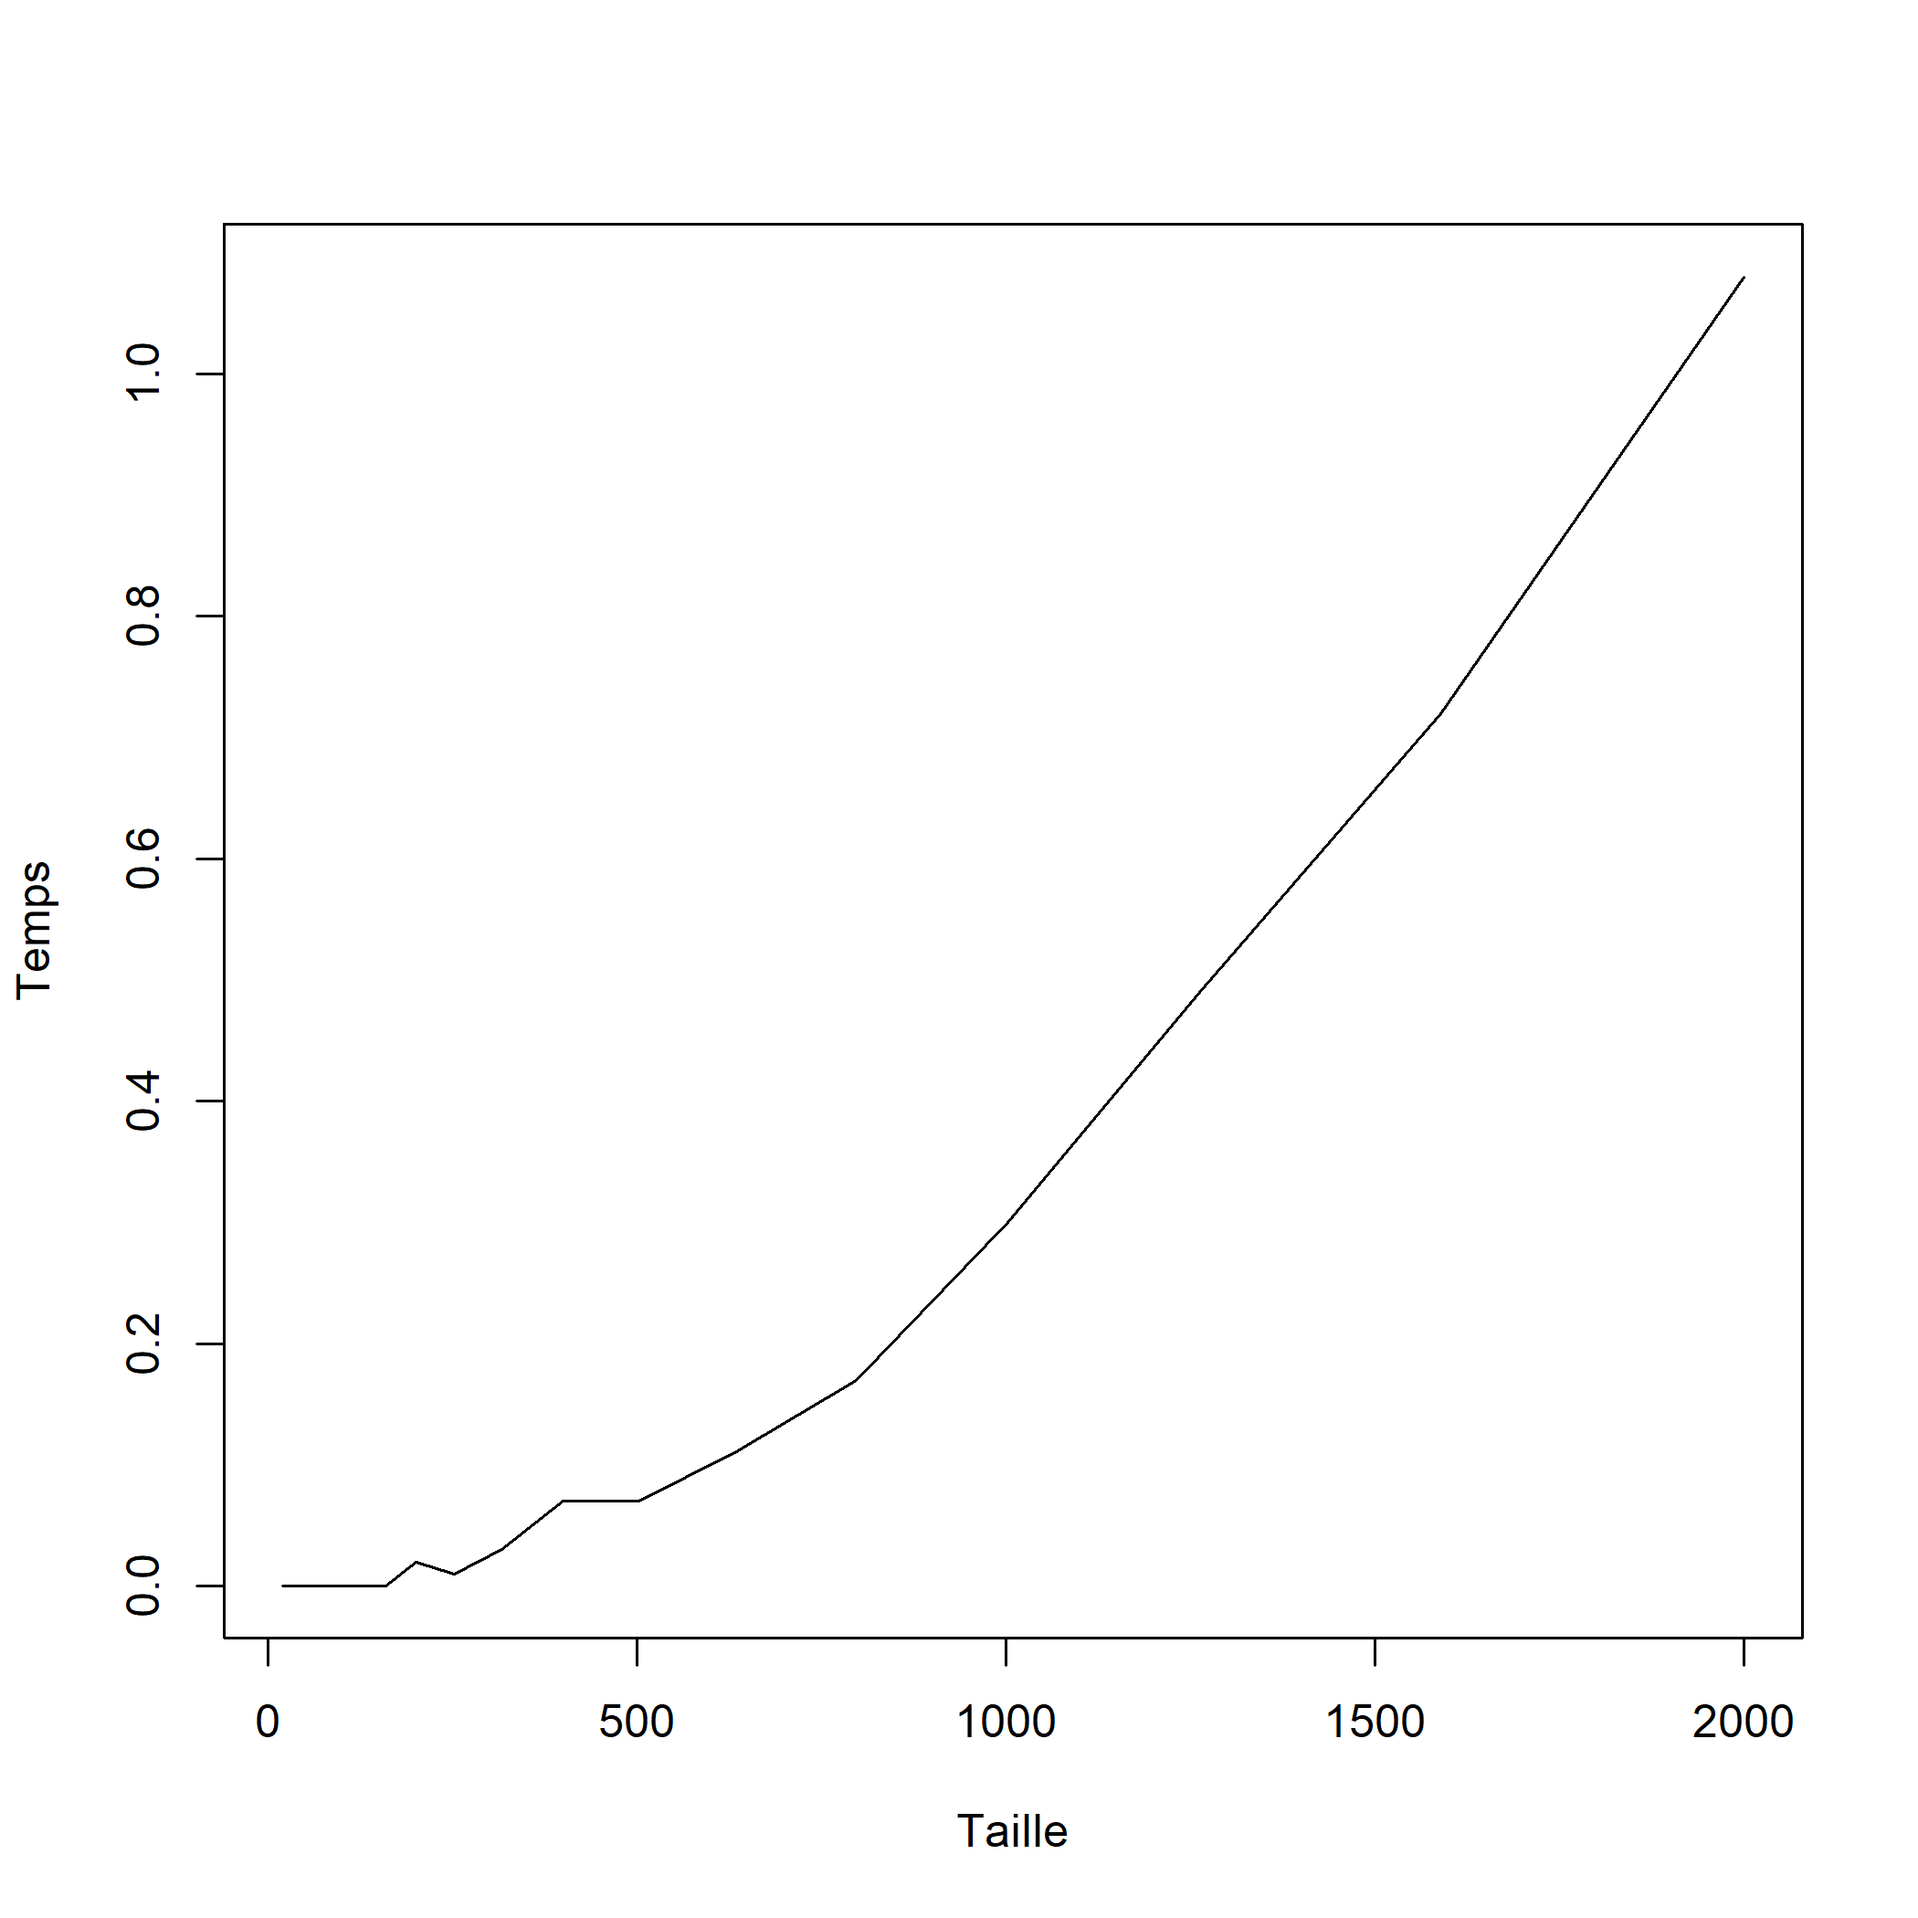
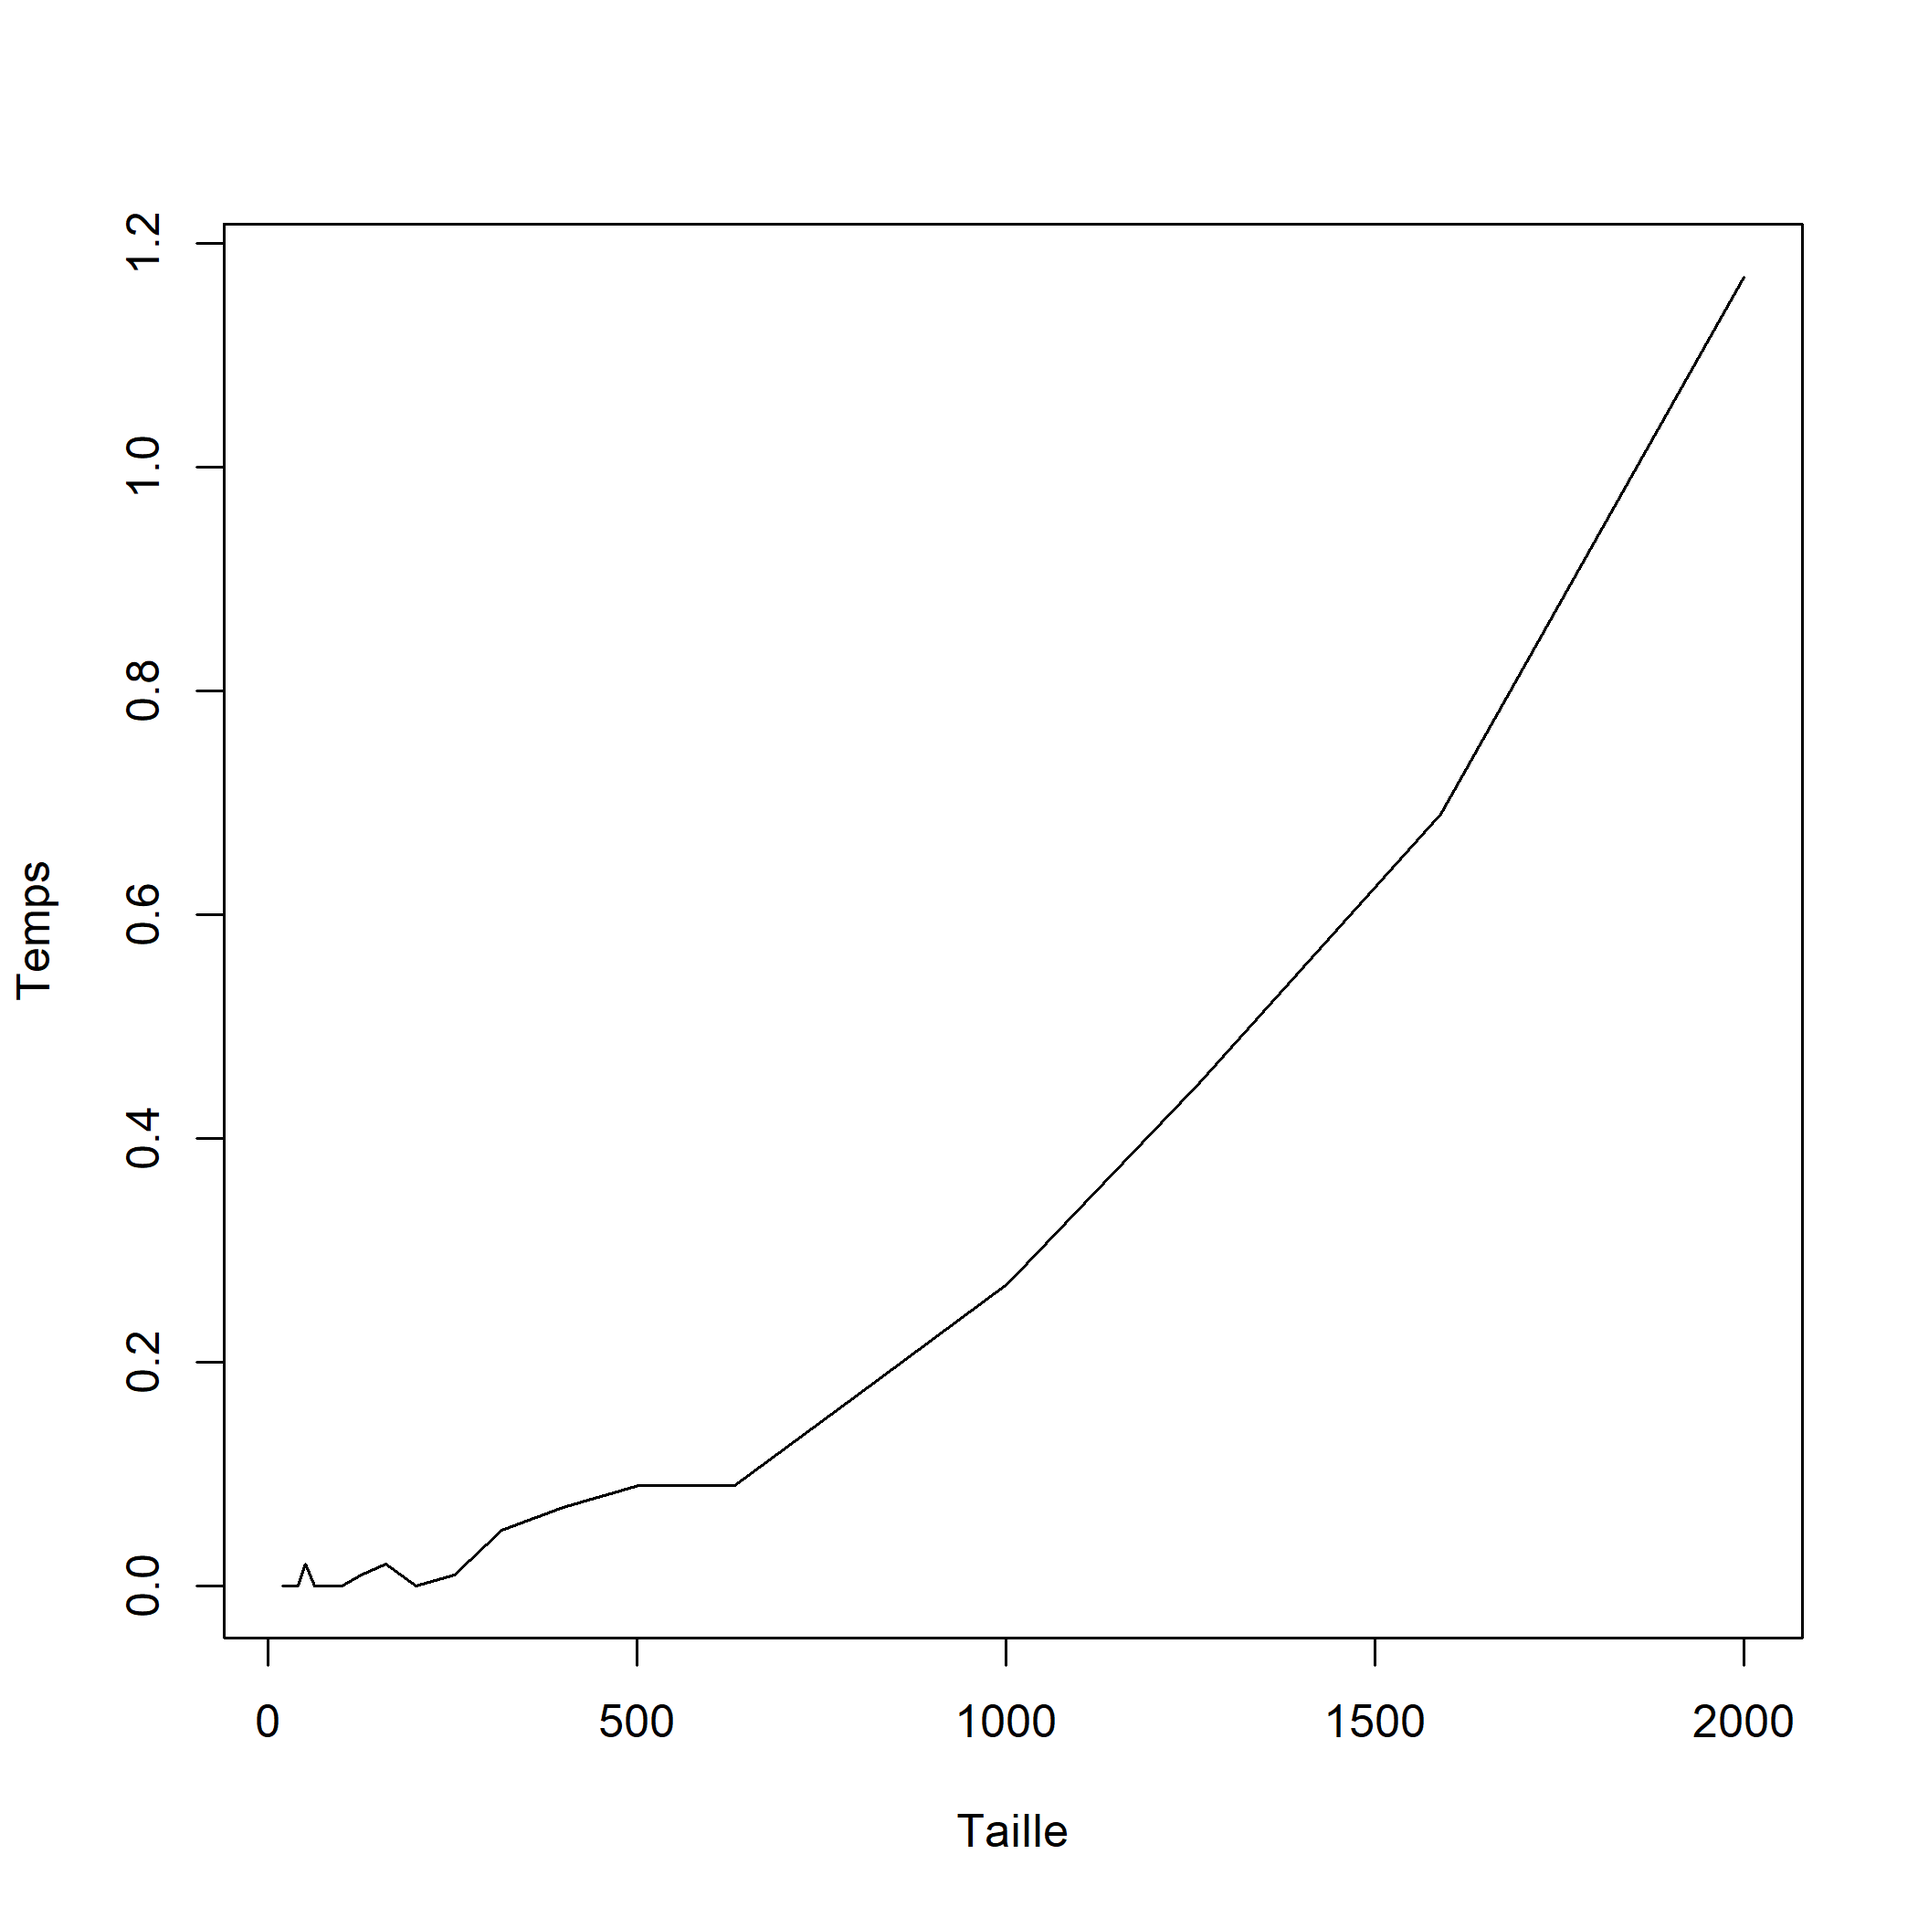
Revert "modif"

diff --git a/Atelier_3/index.html b/Atelier_3/index.html
@@ -400,11 +400,11 @@ for(etape in 1:5) {
 ```
 
 ```
-## [1] 0.8875655
-## [1] 0.8872697
-## [1] 0.5198232
-## [1] 0.4229859
-## [1] 0.04483531
+## [1] 0.1441958
+## [1] 0.5988199
+## [1] 0.1349426
+## [1] 0.842209
+## [1] 0.7561751
 ```
 
 ---
@@ -591,10 +591,6 @@ while(combinaison != "pile-pile") {
 
 ```
 ## [1] "face-pile"
-## [1] "face-pile"
-## [1] "face-pile"
-## [1] "face-pile"
-## [1] "pile-face"
 ## [1] "pile-pile"
 ```
 
@@ -635,7 +631,7 @@ mean(res)
 ```
 
 ```
-## [1] 6.0903
+## [1] 5.953
 ```
 
 ---
@@ -888,17 +884,17 @@ cbind(X,res)
 
 
 ```
-##       X                   res         
-##  [1,] "0.398478131042793" "plus grand"
-##  [2,] "0.607749803457409" "plus grand"
-##  [3,] "0.415178455412388" "plus grand"
-##  [4,] "0.407317390898243" "plus grand"
-##  [5,] "0.923796897754073" "plus grand"
-##  [6,] "0.393358971457928" "plus grand"
-##  [7,] "0.189431205159053" "plus petit"
-##  [8,] "0.820881718071178" "plus grand"
-##  [9,] "0.955734597053379" "plus grand"
-## [10,] "0.771251174621284" "plus grand"
+##       X                     res         
+##  [1,] "0.685319215524942"   "plus grand"
+##  [2,] "0.578169355867431"   "plus grand"
+##  [3,] "0.109360039001331"   "plus petit"
+##  [4,] "0.996298114070669"   "plus grand"
+##  [5,] "0.304845609003678"   "plus grand"
+##  [6,] "0.00606779265217483" "plus petit"
+##  [7,] "0.334209420718253"   "plus grand"
+##  [8,] "0.0873478257562965"  "plus petit"
+##  [9,] "0.0357693308033049"  "plus petit"
+## [10,] "0.224281281931326"   "plus petit"
 ```
 ]
 
@@ -952,17 +948,17 @@ cbind(X,res2)
 
 
 ```
-##       X                   res2 
-##  [1,] "0.398478131042793" "oui"
-##  [2,] "0.607749803457409" "non"
-##  [3,] "0.415178455412388" "oui"
-##  [4,] "0.407317390898243" "oui"
-##  [5,] "0.923796897754073" "non"
-##  [6,] "0.393358971457928" "oui"
-##  [7,] "0.189431205159053" "non"
-##  [8,] "0.820881718071178" "non"
-##  [9,] "0.955734597053379" "non"
-## [10,] "0.771251174621284" "non"
+##       X                     res2 
+##  [1,] "0.685319215524942"   "non"
+##  [2,] "0.578169355867431"   "oui"
+##  [3,] "0.109360039001331"   "non"
+##  [4,] "0.996298114070669"   "non"
+##  [5,] "0.304845609003678"   "oui"
+##  [6,] "0.00606779265217483" "non"
+##  [7,] "0.334209420718253"   "oui"
+##  [8,] "0.0873478257562965"  "non"
+##  [9,] "0.0357693308033049"  "non"
+## [10,] "0.224281281931326"   "oui"
 ```
 ]
 
@@ -988,17 +984,17 @@ cbind(X,res2)
     
 
 ```
-##       X                   res2 
-##  [1,] "0.398478131042793" "oui"
-##  [2,] "0.607749803457409" "non"
-##  [3,] "0.415178455412388" "oui"
-##  [4,] "0.407317390898243" "oui"
-##  [5,] "0.923796897754073" "non"
-##  [6,] "0.393358971457928" "oui"
-##  [7,] "0.189431205159053" "non"
-##  [8,] "0.820881718071178" "non"
-##  [9,] "0.955734597053379" "non"
-## [10,] "0.771251174621284" "non"
+##       X                     res2 
+##  [1,] "0.685319215524942"   "non"
+##  [2,] "0.578169355867431"   "oui"
+##  [3,] "0.109360039001331"   "non"
+##  [4,] "0.996298114070669"   "non"
+##  [5,] "0.304845609003678"   "oui"
+##  [6,] "0.00606779265217483" "non"
+##  [7,] "0.334209420718253"   "oui"
+##  [8,] "0.0873478257562965"  "non"
+##  [9,] "0.0357693308033049"  "non"
+## [10,] "0.224281281931326"   "oui"
 ```
 ]
 
@@ -1112,7 +1108,7 @@ tirage(3, cartes)
 ```
 
 ```
-## [1] "6 - carreau" "10 - coeur"  "8 - carreau"
+## [1] "5 - trèfle"    "valet - coeur" "roi - trèfle"
 ```
 
 ---
@@ -1139,7 +1135,7 @@ res
 ```
 
 ```
-## [1] L T B H T O R
+## [1] A O H M L R F
 ## Levels: A B C D F G H I J K L M N O P Q R S T U V W X Y Z
 ```
 
@@ -1213,7 +1209,7 @@ rbinom(n = 10, size = 1, prob = 0.5)
 ```
 
 ```
-##  [1] 0 0 1 1 0 1 0 1 0 0
+##  [1] 1 1 0 0 1 1 1 1 0 1
 ```
 ]
 
@@ -1236,12 +1232,12 @@ rmultinom(n = 3, size = 1, prob = rep(1/6, 6))
 
 ```
 ##      [,1] [,2] [,3]
-## [1,]    0    1    1
+## [1,]    0    0    0
 ## [2,]    0    0    0
-## [3,]    0    0    0
-## [4,]    1    0    0
+## [3,]    0    0    1
+## [4,]    0    0    0
 ## [5,]    0    0    0
-## [6,]    0    0    0
+## [6,]    1    1    0
 ```
 ]
 
@@ -1741,7 +1737,7 @@ system.time(tri(x))
 
 ```
 ##    user  system elapsed 
-##    0.27    0.00    0.27
+##    0.26    0.00    0.27
 ```
 
 ---
@@ -1827,7 +1823,7 @@ f1 &lt;- function(x) {
 	res &lt;- numeric(ncol(x))
 	for(j in 1:ncol(x)) {
 		for(i in 1:nrow(x)){
-			res[j] &lt;- res[j] + x[i,j]
+			res[x] &lt;- res[j] + x[i,j]
 		}
 	}
 }
@@ -1852,7 +1848,7 @@ system.time(f1(X))
 ##    user  system elapsed 
 ##       0       0       0 
 ##    user  system elapsed 
-##       0       0       0
+##    0.70    0.00    0.72
 ```
 ]
 
